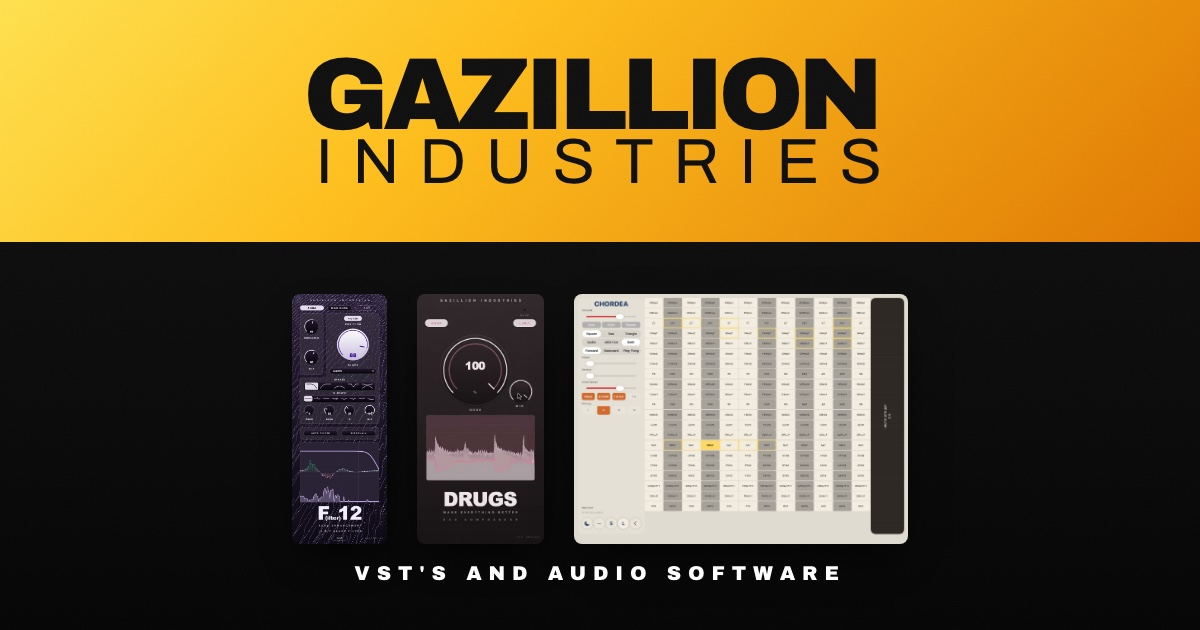
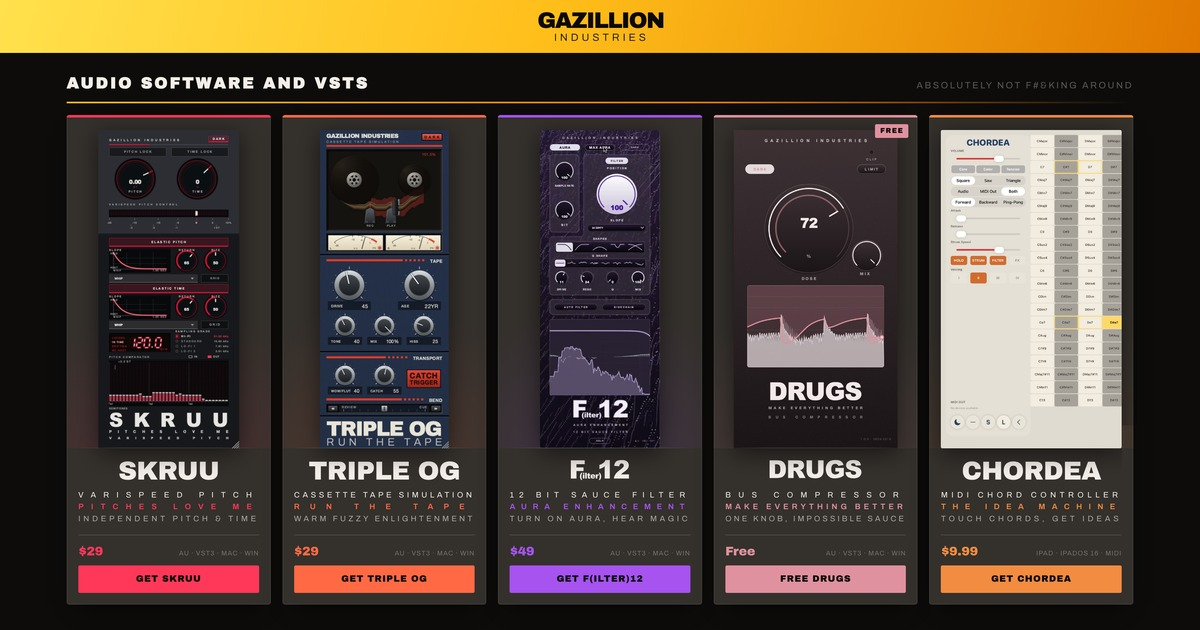
og: regenerate the link preview from the new shelf
og-home.jpg still showed three panels - F(ilter)12, DRUGS and Chordea - so
every link preview of a five-product storefront advertised the old catalogue.

Rebuilt from the live layout: 1440x760 rendered at 2x, cropped 2880x1512
(exactly 1.905:1) and downsampled to 1200x630, so the whole shelf lands in
frame with no upscaling anywhere.

Thumbnail-tested at the sizes a feed actually renders it: at 500px the five
product names read and the colourways separate; at 300px the silhouette still
says five instruments.  The supporting lines go to texture at both, which is
correct for this format.

og:image:alt widened to name all five.  The alt describes the PICTURE, not the
catalogue - regenerate the two together or it goes stale again.

diff --git a/index.html b/index.html
@@ -15,10 +15,10 @@
 <meta property="og:image" content="https://gazillionindustries.com/og-home.jpg">
 <meta property="og:image:width" content="1200">
 <meta property="og:image:height" content="630">
-<!-- alt describes the EXISTING og-home.jpg, which predates SKRUU and
-     TRIPLE OG.  Do not widen this sentence without regenerating the
-     image - the alt has to match the picture, not the catalogue. -->
-<meta property="og:image:alt" content="The Gazillion Industries wordmark on the gold sky, over the F(ilter)12, DRUGS and Chordea panels.">
+<!-- The alt has to match the picture, not the catalogue.  og-home.jpg was
+     regenerated from this layout on 7 Sep 2026 and now shows all five, so the
+     sentence was widened to match.  Regenerate both together, always. -->
+<meta property="og:image:alt" content="The Gazillion Industries wordmark on the gold sky, over the SKRUU, TRIPLE OG, F(ilter)12, DRUGS and Chordea panels.">
 <meta name="twitter:card" content="summary_large_image">
 <meta name="twitter:image" content="https://gazillionindustries.com/og-home.jpg">
 
